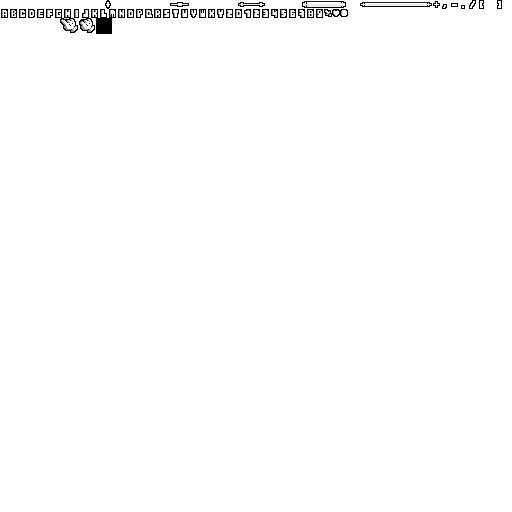
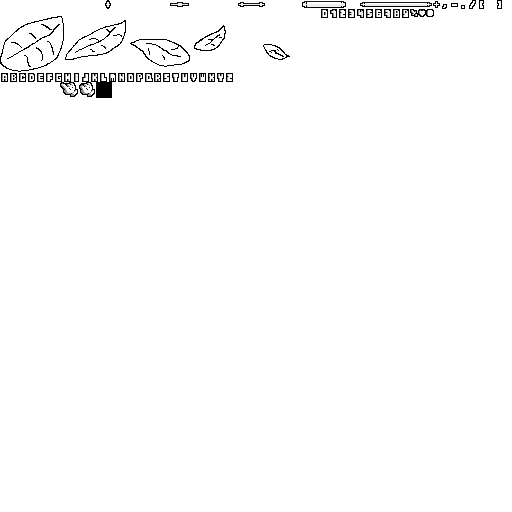
[WIP] Flower background.

Changed region(s): [[0.0, 0.0, 0.8438, 0.2188], [0.5312, 0.0938, 0.5625, 0.125]]

diff --git a/GraphicsEngine/Game/Src/Levels/MainLevel.cpp b/GraphicsEngine/Game/Src/Levels/MainLevel.cpp
@@ -12,6 +12,7 @@
 #include "States/PlayerState.h"
 #include "Utils/Shuffle.h"
 #include "JLib/VectorUtils.h"
+#include "Utils/SubTextureUtils.h"
 
 namespace game
 {
@@ -310,6 +311,9 @@ namespace game
 
 		auto& gameState = info.gameState;
 		auto& boardState = state.boardState;
+
+		DrawParallaxBackground(info, false);
+		DrawParallaxBackground(info, true);
 
 		const bool stackOverloaded = state.stack.count == state.stack.length;
 		if (state.stack.count == 0)
@@ -668,7 +672,7 @@ namespace game
 		if(state.stack.count == 0 && !activeStateValid)
 		{
 			ButtonDrawInfo buttonDrawInfo{};
-			buttonDrawInfo.origin = glm::ivec2(SIMULATED_RESOLUTION.x - 64, HAND_HEIGHT + 24);
+			buttonDrawInfo.origin = glm::ivec2(SIMULATED_RESOLUTION.x - 64, 6);
 			buttonDrawInfo.text = "end turn";
 			buttonDrawInfo.width = 64;
 			buttonDrawInfo.centerText = true;
@@ -1582,6 +1586,58 @@ namespace game
 		++state.depth;
 	}
 
+	void MainLevel::CombatState::DrawParallaxBackground(const LevelUpdateInfo& info, const bool mirror)
+	{
+		glm::vec2 mouseOffset = info.inputState.mousePos - SIMULATED_RESOLUTION / 2;
+
+		PixelPerfectRenderTask renderTask{};
+		renderTask.scale = glm::ivec2(64);
+		renderTask.xCenter = true;
+
+		auto subTexture = info.atlasTextures[static_cast<uint32_t>(TextureId::flowers)].subTexture;
+		jv::ge::SubTexture subTextures[5];
+		Divide(subTexture, subTextures, sizeof subTextures / sizeof(jv::ge::SubTexture));
+
+		glm::ivec2 c = glm::ivec2(0, 24);
+		c.x = mirror ? SIMULATED_RESOLUTION.x - c.x : c.x;
+		const int32_t m = !mirror * 2 - 1;
+
+		renderTask.subTexture = subTextures[4];
+		if (mirror)
+			renderTask.subTexture = Mirror(renderTask.subTexture);
+		renderTask.position = c + glm::ivec2(128 * m, -16);
+		renderTask.position -= mouseOffset * glm::vec2(.002f);
+		info.renderTasks.Push(renderTask);
+
+		renderTask.subTexture = subTextures[3];
+		if (mirror)
+			renderTask.subTexture = Mirror(renderTask.subTexture);
+		renderTask.position = c + glm::ivec2(76 * m, 8);
+		renderTask.position -= mouseOffset * glm::vec2(.005f);
+		info.renderTasks.Push(renderTask);
+
+		renderTask.subTexture = subTextures[2];
+		if (mirror)
+			renderTask.subTexture = Mirror(renderTask.subTexture);
+		renderTask.position = c + glm::ivec2(48 * m, 8);
+		renderTask.position -= mouseOffset * glm::vec2(.01f);
+		info.renderTasks.Push(renderTask);
+
+		renderTask.subTexture = subTextures[1];
+		if (mirror)
+			renderTask.subTexture = Mirror(renderTask.subTexture);
+		renderTask.position = c + glm::ivec2(36 * m, 8);
+		renderTask.position -= mouseOffset * glm::vec2(.02f);
+		info.renderTasks.Push(renderTask);
+		
+		renderTask.subTexture = subTextures[0];
+		if (mirror)
+			renderTask.subTexture = Mirror(renderTask.subTexture);
+		renderTask.position = c;
+		renderTask.position -= mouseOffset * glm::vec2(.04f);
+		info.renderTasks.Push(renderTask);
+	}
+
 	void MainLevel::RewardMagicCardState::Reset(State& state, const LevelInfo& info)
 	{
 		discoverOption = -1;
@@ -2004,6 +2060,10 @@ namespace game
 		states[6] = info.arena.New<ExitFoundState>();
 		stateMachine = LevelStateMachine<State>::Create(info, states, State::Create(info));
 		ingameMenuOpened = false;
+
+		// temp.
+		stateMachine.state.depth = 100;
+		stateMachine.next = stateMachine.current;
 	}
 
 	bool MainLevel::Update(const LevelUpdateInfo& info, LevelIndex& loadLevelIndex)

diff --git a/GraphicsEngine/Game/Src/CardGame.cpp b/GraphicsEngine/Game/Src/CardGame.cpp
@@ -658,8 +658,9 @@ namespace game
 		arr[4] = "Art/card.png";
 		arr[5] = "Art/button.png";
 		arr[6] = "Art/stats.png";
-		arr[7] = "Art/fallback.png";
-		arr[8] = "Art/empty.png";
+		arr[7] = "Art/flowers.png";
+		arr[8] = "Art/fallback.png";
+		arr[9] = "Art/empty.png";
 		return arr;
 	}
 
@@ -3090,17 +3091,17 @@ namespace game
 
 		auto& gatheringStorm = arr[EVENT_IDS::GATHERING_STORM];
 		gatheringStorm.name = "gathering storm";
-		gatheringStorm.ruleText = "[end of turn] all enemies gain +1 bonus attack and health.";
+		gatheringStorm.ruleText = "[start of turn] all enemies gain +1 bonus attack and health.";
 		gatheringStorm.onActionEvent = [](const LevelInfo& info, State& state, const ActionState& actionState, const uint32_t self)
 			{
-				if (actionState.trigger != ActionState::Trigger::onEndOfTurn)
+				if (actionState.trigger != ActionState::Trigger::onStartOfTurn)
 					return false;
 
 				ActionState buffState{};
 				buffState.trigger = ActionState::Trigger::onStatBuff;
 				buffState.source = ActionState::Source::other;
-				buffState.values[ActionState::VStatBuff::attack] = 1;
-				buffState.values[ActionState::VStatBuff::health] = 1;
+				buffState.values[ActionState::VStatBuff::tempAttack] = 1;
+				buffState.values[ActionState::VStatBuff::tempHealth] = 1;
 				TargetOfType(info, state, buffState, 0, -1, TypeTarget::enemies);
 				return true;
 			};

diff --git a/GraphicsEngine/Game/Include/Levels/MainLevel.h b/GraphicsEngine/Game/Include/Levels/MainLevel.h
@@ -100,6 +100,7 @@ namespace game
 			[[nodiscard]] static uint32_t GetEventCardCount(const State& state);
 			static void Shake(const LevelUpdateInfo& info);
 			void OnExit(State& state, const LevelInfo& info) override;
+			static void DrawParallaxBackground(const LevelUpdateInfo& info, bool mirror);
 		};
 
 		struct RewardMagicCardState final : LevelState<State>

diff --git a/GraphicsEngine/Game/Src/Utils/SubTextureUtils.cpp b/GraphicsEngine/Game/Src/Utils/SubTextureUtils.cpp
@@ -14,4 +14,12 @@ namespace game
 			sub.rBot.x = sub.lTop.x + partition;
 		}
 	}
+
+	jv::ge::SubTexture Mirror(const jv::ge::SubTexture& subTexture)
+	{
+		auto ret = subTexture;
+		ret.lTop.x = subTexture.rBot.x;
+		ret.rBot.x = subTexture.lTop.x;
+		return ret;
+	}
 }

diff --git a/GraphicsEngine/Game/Include/Utils/SubTextureUtils.h b/GraphicsEngine/Game/Include/Utils/SubTextureUtils.h
@@ -11,4 +11,5 @@ namespace jv
 namespace game
 {
 	void Divide(const jv::ge::SubTexture& subTexture, jv::ge::SubTexture* arr, uint32_t length);
+	jv::ge::SubTexture Mirror(const jv::ge::SubTexture& subTexture);
 }

diff --git a/GraphicsEngine/Game/Include/Macros.h b/GraphicsEngine/Game/Include/Macros.h
@@ -245,6 +245,7 @@ enum class TextureId
 	card,
 	button,
 	stats,
+	flowers,
 	fallback,
 	empty,
 	length
